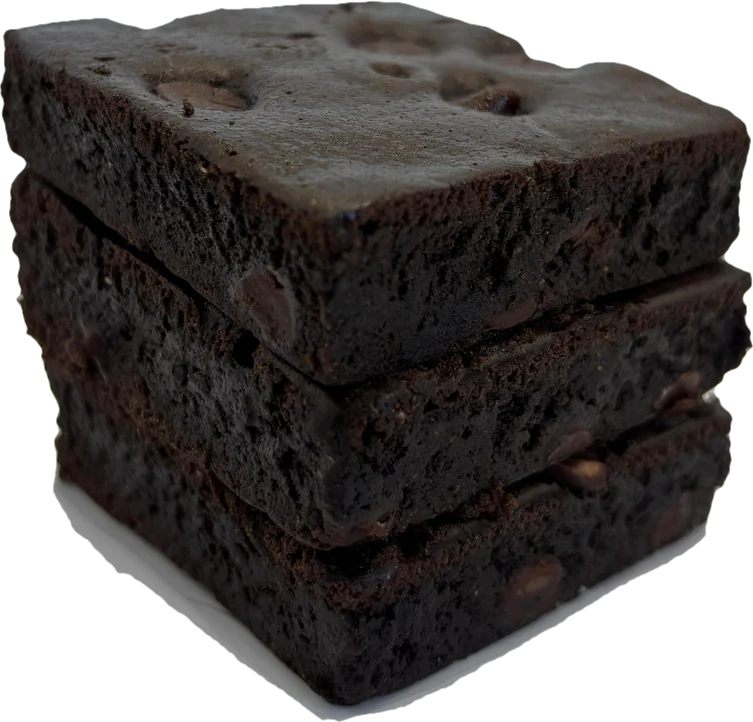
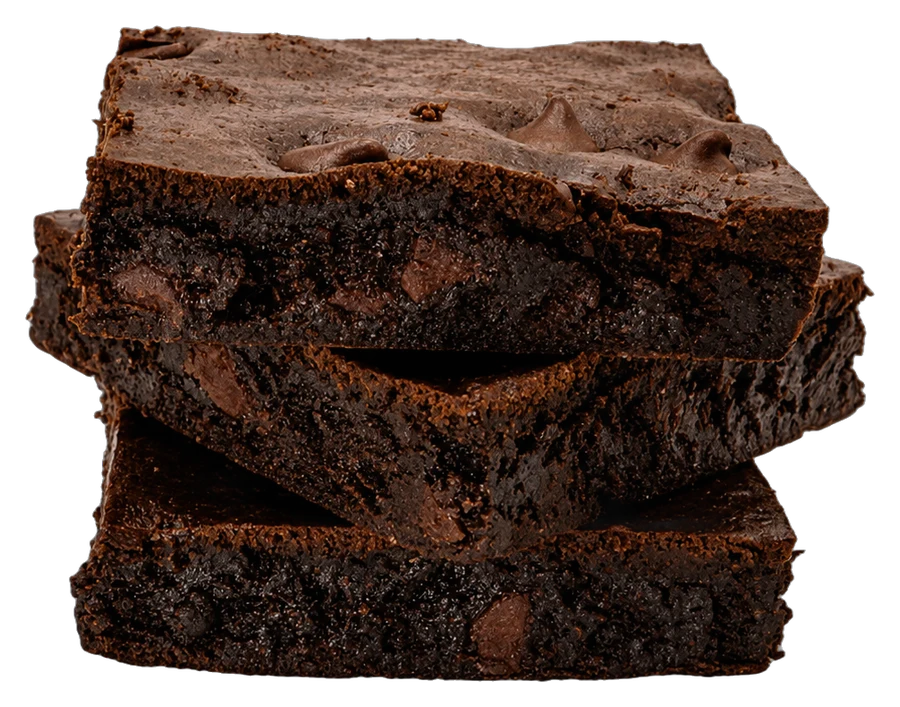
New brownie photos and a 12 PACK sticker on the dozens
Swap the single and 12-pack brownie shots for the new matched set, and
fix the red velvet single. The 12-packs show a round "12 PACK" sticker
in the corner, set per product in shopify.js and styled in shop.html.

Claude-Session: https://claude.ai/code/session_01FYzhJXXvmYSueujF3Xu2Ss

diff --git a/shop.html b/shop.html
@@ -29,7 +29,7 @@
 
   <link rel="preconnect" href="https://fonts.googleapis.com" />
   <link rel="preconnect" href="https://fonts.gstatic.com" crossorigin />
-  <link href="https://fonts.googleapis.com/css2?family=Playfair+Display:wght@700&display=swap" rel="stylesheet" />
+  <link href="https://fonts.googleapis.com/css2?family=Fredoka:wght@600;700&family=Playfair+Display:wght@700&display=swap" rel="stylesheet" />
 
   <style>
     /* ── Design Tokens (matches index.html) ─────────────── */
@@ -247,6 +247,25 @@
     .pcard__img[src$=".jpg"] { padding: 0; object-fit: cover; object-position: center 40%; filter: none; }
     .pcard:hover .pcard__img[src$=".jpg"] { filter: none; }
     .pcard__visual-overlay { position: absolute; inset: 0; background: none; pointer-events: none; }
+    /* Round product sticker (e.g. "12 PACK"), styled like the 19g sticker
+       on the home page. Text comes from the product's `sticker` field in
+       js/shopify.js; change the look here, the wording there. */
+    .psticker {
+      position: absolute; top: 10px; right: 10px; z-index: 2;
+      width: 54px; aspect-ratio: 1; border-radius: 50%;
+      display: flex; flex-direction: column; align-items: center; justify-content: center;
+      background: #754024; color: #FAF2E0;
+      font-family: 'Fredoka', 'Montserrat', sans-serif; font-weight: 600;
+      text-align: center; line-height: 1; text-transform: uppercase;
+      box-shadow: 0 4px 10px rgba(60, 30, 8, .28);
+      pointer-events: none;
+    }
+    .psticker__num { font-size: 1.3rem; letter-spacing: -.01em; }
+    .psticker__word { margin-top: 2px; font-size: .55rem; font-weight: 700; letter-spacing: .04em; }
+    .pdv__img-side .psticker { top: 62px; right: 18px; width: 84px; }
+    .pdv__img-side .psticker__num { font-size: 2rem; }
+    .pdv__img-side .psticker__word { font-size: .82rem; margin-top: 3px; }
+
     .pcard__badge {
       position: absolute; top: 10px; left: 10px; z-index: 2;
       background: var(--brown-800); color: var(--gold);
@@ -973,7 +992,7 @@
   <script>window.RC_CART_OWNER = true; /* shop.html renders its own cart badge */</script>
   <script src="js/site-nav.js?v=20260813b"></script>
   <script src="js/config.js?v=20260813"></script>
-  <script src="js/shopify.js?v=20260930"></script>
+  <script src="js/shopify.js?v=20261001"></script>
   <script src="js/cart.js?v=20260813"></script>
   <script src="js/welcome-rain.js?v=20260930b"></script>
   <script>
@@ -1002,6 +1021,11 @@
     }
 
     // ── Render products ─────────────────────────────────
+    function stickerHtml(p) {
+      if (!p.sticker) return '';
+      return `<span class="psticker"><span class="psticker__num">${p.sticker.num}</span><span class="psticker__word">${p.sticker.word}</span></span>`;
+    }
+
     function renderProducts() {
       const grid   = document.getElementById('productsGrid');
       const wsTags = currentUser?.tags || [];
@@ -1022,6 +1046,7 @@
                 ? `<div class="pcard__coming-badge">Coming Soon</div>`
                 : (p.badge ? `<span class="pcard__badge">${p.badge}</span>` : '')
               }
+              ${isCS ? '' : stickerHtml(p)}
               <span class="pcard__quickview">Quick View</span>
             </div>
             <div class="pcard__body">
@@ -1392,6 +1417,7 @@
       document.getElementById('pdvImgSide').innerHTML = `
         <button class="pdv__close" onclick="closeProductDetail()">&times;</button>
         <img src="${p.image}" alt="${p.title}"${p.imgPosition ? ` style="object-position:${p.imgPosition}"` : ''} />
+        ${p.comingSoon ? '' : stickerHtml(p)}
       `;
 
       // Price

diff --git a/js/shopify.js b/js/shopify.js
@@ -11,7 +11,7 @@ const MOCK_PRODUCTS = [
     title: 'Chocolate Protein Brownie',
     description: 'Powerful, rich, and functional. Our Chocolate Protein Brownie delivers deep cocoa flavor with a soft, satisfying texture. High in protein and low in sugar, made with premium ingredients to support performance and an active lifestyle.',
     price: '3.99',
-    image: 'images/3.0/chocolate-brownie-stack-alt.webp',
+    image: 'images/3.0/chocolate-brownie-single.webp',
     imgPosition: 'center 50%',
     nutrition: {
       servingSize: '1 pack (70g)', calories: 150,
@@ -35,7 +35,7 @@ const MOCK_PRODUCTS = [
     title: 'Red Velvet Protein Brownie',
     description: 'Sophistication with purpose. The Red Velvet Protein Brownie offers a delicate texture and balanced flavor profile, high in protein and low in carbohydrates. Designed for those who want premium nutrition without giving up indulgence.',
     price: '3.99',
-    image: 'images/3.0/red-velvet-brownie-stack.webp',
+    image: 'images/3.0/red-velvet-brownie-single.webp',
     imgPosition: 'center 50%',
     nutrition: {
       servingSize: '1 pack (70g)', calories: 170,
@@ -59,7 +59,7 @@ const MOCK_PRODUCTS = [
     title: 'Blondie Protein Brownie',
     description: 'Soft, golden, and functional. The Blondie Protein Brownie is a refined alternative to chocolate, high in protein and low in sugar. Ideal as a smart snack to stay fueled, satisfied, and in control.',
     price: '3.99',
-    image: 'images/3.0/blondie-brownie-stack.webp',
+    image: 'images/3.0/blondie-brownie-single.webp',
     imgPosition: 'center 50%',
     nutrition: {
       servingSize: '1 pack (70g)', calories: 180,
@@ -84,6 +84,7 @@ const MOCK_PRODUCTS = [
     description: 'A full dozen of our bestselling Chocolate Protein Brownies. Stock up and save — 19g protein in every brownie.',
     price: '39.99',
     image: 'images/3.0/chocolate-12pack.webp',
+    sticker: { num: '12', word: 'pack' },
     imgPosition: 'center 50%',
     nutrition: {
       servingSize: '1 brownie (70g)', servingsPerContainer: 12, calories: 150,
@@ -107,6 +108,7 @@ const MOCK_PRODUCTS = [
     description: 'A full dozen of our Red Velvet Protein Brownies. Silky, rich, and 19g of protein every single time.',
     price: '39.99',
     image: 'images/3.0/red-velvet-12pack.webp',
+    sticker: { num: '12', word: 'pack' },
     imgPosition: 'center 50%',
     nutrition: {
       servingSize: '1 brownie (70g)', servingsPerContainer: 12, calories: 170,
@@ -130,6 +132,7 @@ const MOCK_PRODUCTS = [
     description: 'A full dozen of our Blondie Protein Brownies. Buttery caramel flavor with 19g of protein per brownie.',
     price: '39.99',
     image: 'images/3.0/blondie-12pack.webp',
+    sticker: { num: '12', word: 'pack' },
     imgPosition: 'center 50%',
     nutrition: {
       servingSize: '1 brownie (70g)', servingsPerContainer: 12, calories: 180,

diff --git a/index.html b/index.html
@@ -472,7 +472,7 @@
       <div class="products">
         <div class="product animate-in">
           <div class="product__media">
-            <img src="images/3.0/chocolate-brownie-stack-alt.webp" alt="Chocolate Protein Brownie" />
+            <img src="images/3.0/chocolate-brownie-single.webp" alt="Chocolate Protein Brownie" />
           </div>
           <h3 class="product__name">Chocolate Protein Brownie</h3>
           <p class="product__desc">Powerful, rich, and functional.</p>
@@ -481,7 +481,7 @@
 
         <div class="product animate-in" style="transition-delay:110ms;">
           <div class="product__media">
-            <img src="images/3.0/red-velvet-brownie-stack.webp" alt="Red Velvet Protein Brownie" />
+            <img src="images/3.0/red-velvet-brownie-single.webp" alt="Red Velvet Protein Brownie" />
           </div>
           <h3 class="product__name">Red Velvet Protein Brownie</h3>
           <p class="product__desc">Sophistication with purpose.</p>
@@ -490,7 +490,7 @@
 
         <div class="product animate-in" style="transition-delay:220ms;">
           <div class="product__media">
-            <img src="images/3.0/blondie-brownie-stack.webp" alt="Blondie Protein Brownie" />
+            <img src="images/3.0/blondie-brownie-single.webp" alt="Blondie Protein Brownie" />
           </div>
           <h3 class="product__name">Blondie Protein Brownie</h3>
           <p class="product__desc">Soft, golden, and functional.</p>
